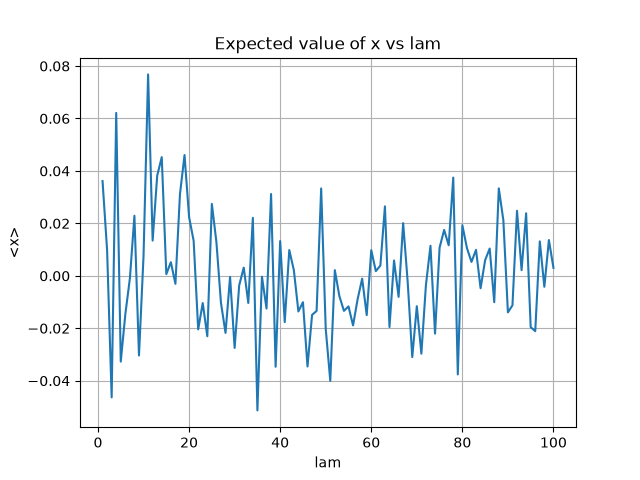
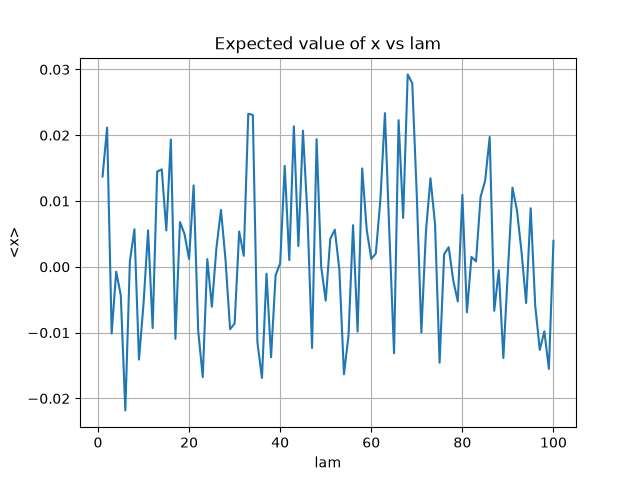
getting stuck

diff --git a/HMC_an.py b/HMC_an.py
@@ -27,14 +27,14 @@ class an_HMC:
             # Draw the momentum from a Normal distribution
             p = np.random.normal(0, self.m)
             # Compute the first leapfrog step
-            p_star = p - 0.5*self.eps*x[t]
+            p_star = p - 0.5*self.eps*(self.k*x[t] + self.lam*x[t]**3)
             x_star = x[t] + self.eps*p_star/self.m
             # Compute (x*, - p*) using L leapfrog steps of size eps
             for l in range(1, self.L):
-                p_star = p_star - self.eps*x_star
+                p_star = p_star - self.eps*(self.k*x_star + self.lam*x_star**3)
                 x_star = x_star + self.eps*p_star/self.m
             # Compute the final step of the leapfrog method
-            p_star = p_star - 0.5*self.eps*x_star
+            p_star = p_star - 0.5*self.eps*(self.k*x_star + self.lam*x_star**3)
             # Compute the acceptance ratio
             r = np.exp(-self.an_H(x_star, p_star) + self.an_H(x[t], p))
             # Draw W from a Uniform distribution

diff --git a/RMHMC.py b/RMHMC.py
@@ -31,7 +31,7 @@ class RMHMC:
             # Draw the momentum from a Normal distribution
             p = np.random.normal(0, self.G)
             # Compute the first leapfrog step
-            p_star = p - 0.5*self.eps*x[t]
+            p_star = p - 0.5*self.eps*(self.k*x[t] + self.lam*x[t]**3 +)
             x_star = x[t] + self.eps*p_star/self.G
             # Compute (x*, - p*) using L leapfrog steps of size eps
             for l in range(1, self.L):